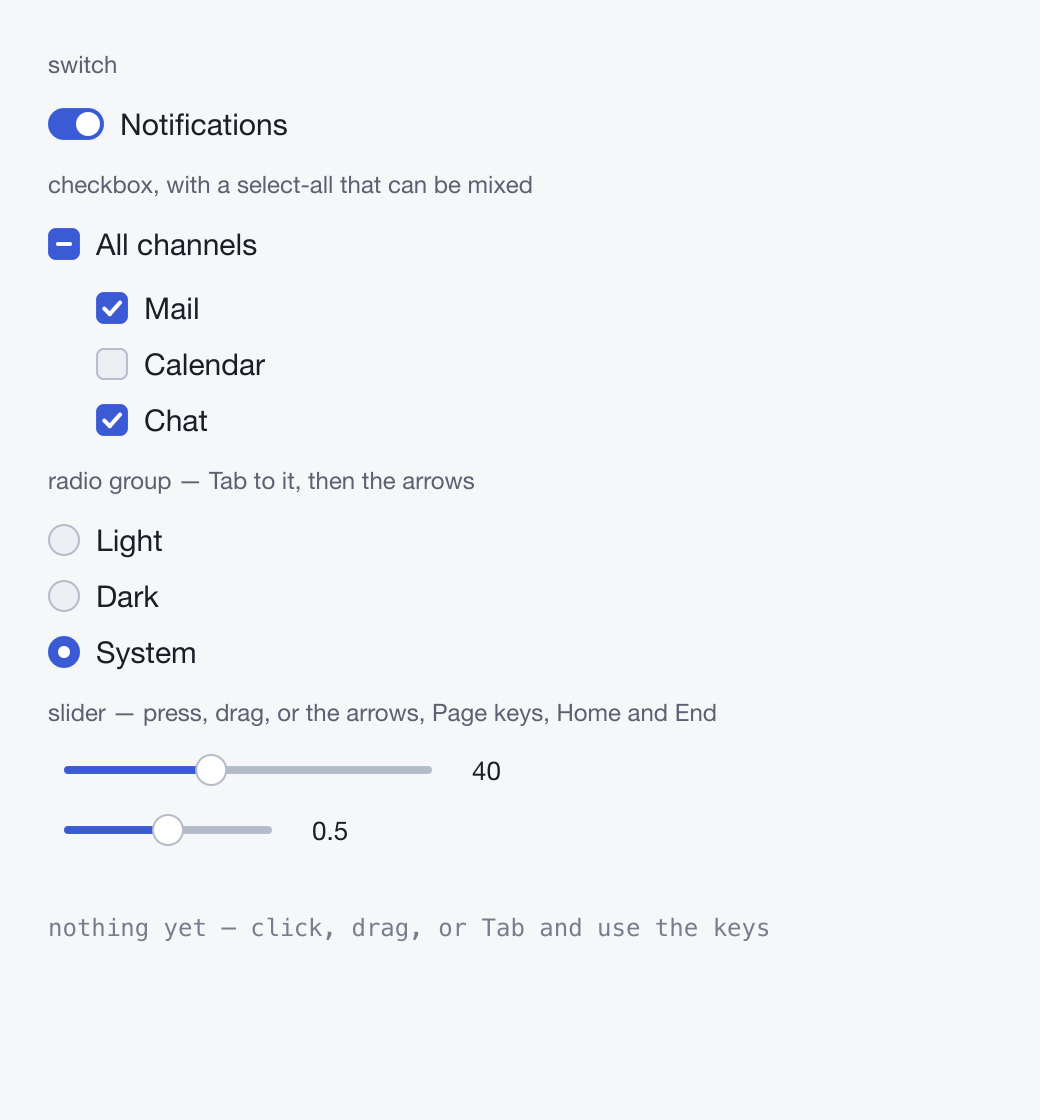
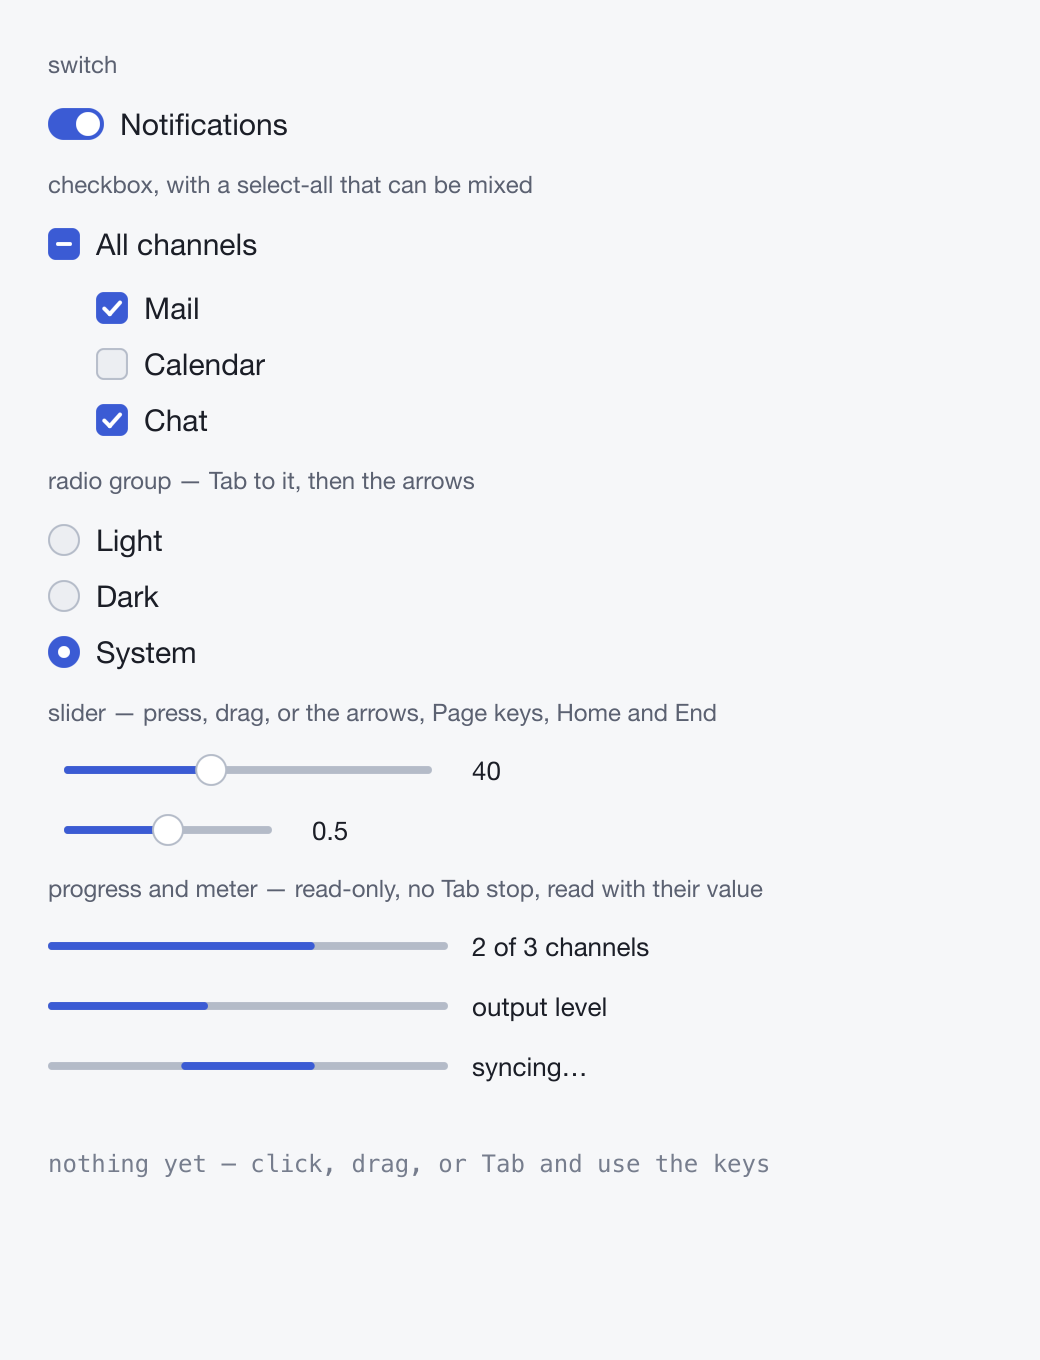
The progress bar and the meter in the howto and the controls examples (F267's docs)
F267 shipped the roles and the stock bar with no page saying how to use them and no example showing one. docs/howto.md gains "How do I show progress or a level?": the bar in every binding, read-only and read with its value, busy with no valueNow, and a meter (role="meter") for a level that is not a task. The Rust and Node controls examples show a progress bar counting the channels set up (its valueText "2 of 3"), a meter following the volume, and a busy bar, each with a visible caption beside it (the label is the accessible name only); their headless drives check what a reader hears from each, and the book's picture of the example is drawn again.

Tests: cargo run --example controls -- --headless and the Node twin's --headless (the bar's 2 then 3, the busy bar's no number, the meter's 100 after End); npm run typecheck; docs test; gen.nu --check (all steps) and book-examples.nu --check current; test.nu --node 3371 passed.

diff --git a/examples/node/widgets/controls.tsx b/examples/node/widgets/controls.tsx
@@ -3,8 +3,11 @@
 // of `<radio>`s whose arrows move the choice, and `<slider>`s whose changes
 // arrive as their `onChange` message with `change: {value, phase}` in it. None holds state: each
 // is drawn from the model, a toggle's press is its `onClick` message, and a
-// slider's value is proposed by the core and stored by `update` — the twin
-// of `rust/widgets/controls.rs`.
+// slider's value is proposed by the core and stored by `update`. Under them
+// the read-only bars (backlog F267): a `<progress>` counting the channels
+// set up, a meter showing the volume as a level, and a busy bar with no
+// value — none a control, each read with its value. The twin of
+// `rust/widgets/controls.rs`.
 //
 //   npm run controls                           a window to use by hand
 //   node dist/widgets/controls.mjs --headless  the same loop, no window
@@ -99,6 +102,27 @@ function view(model: Model) {
         />
         <text size={13}>{model.gain.toFixed(1)}</text>
       </box>
+      {heading('progress and meter — read-only, no Tab stop, read with their value')}
+      <box dir="row" gap={12} crossAlign="center">
+        <progress
+          label="Channels set up"
+          valueNow={ticked}
+          valueMin={0}
+          valueMax={CHANNELS.length}
+          valueText={`${ticked} of ${CHANNELS.length}`}
+        />
+        <text size={13}>{`${ticked} of ${CHANNELS.length} channels`}</text>
+      </box>
+      {/* A level, not a task under way: a meter. */}
+      <box dir="row" gap={12} crossAlign="center">
+        <progress label="Output level" role="meter" valueNow={model.volume} valueMax={100} />
+        <text size={13}>output level</text>
+      </box>
+      {/* No value: busy, read as indeterminate. */}
+      <box dir="row" gap={12} crossAlign="center">
+        <progress label="Syncing" />
+        <text size={13}>syncing…</text>
+      </box>
     </box>
   );
 }
@@ -109,7 +133,7 @@ await run<Model, AppMsg>({
   update,
   view,
   keys: [['click / space', 'toggle'], ['↑ ↓', 'move the radio'], ['← → pgup pgdn home end', 'move a slider']],
-  window: { width: 520, height: 540 },
+  window: { width: 520, height: 680 },
   headless: (app: App<Model, Msg>) => {
     const ok = (cond: boolean, what: string) => {
       if (!cond) throw new Error(what);
@@ -117,11 +141,15 @@ await run<Model, AppMsg>({
     };
     const node = (role: string, name: string) => app.accessTree().nodes.find((n) => n.role === role && n.name === name)!;
     app.render();
+    const setUp = node('progress', 'Channels set up');
+    ok(setUp.valueNow === 2 && setUp.value === '2 of 3', 'the progress bar reads two of three');
+    ok(node('progress', 'Syncing').valueNow === null, 'the busy bar carries no number');
     ok(node('checkbox', 'All channels').mixed, 'two of three channels: the select-all is mixed');
     app.access('All channels', 'click');
     app.render();
     ok(app.model.channels.every(Boolean), 'and ticking it ticks every row');
     ok(node('checkbox', 'All channels').checked === true, 'then it reads checked');
+    ok(node('progress', 'Channels set up').valueNow === 3, 'and the bar follows: three of three');
 
     const vol = node('slider', 'Volume');
     ok(vol.valueStep === 5, 'the slider reports its step');
@@ -134,6 +162,7 @@ await run<Model, AppMsg>({
     app.key('end');
     ok(app.model.volume === 100, 'End is the top');
     app.render();
+    ok(node('meter', 'Output level').valueNow === 100, 'the meter reads the volume');
     app.ctx.focus(node('slider', 'Gain').key);
     app.key('left');
     ok(app.model.gain === 0.4, 'a tenth down is 0.4 on the wire');

diff --git a/examples/rust/widgets/controls.rs b/examples/rust/widgets/controls.rs
@@ -1,13 +1,17 @@
 //! The stock controls (`docs/adr/0034-stock-controls-over-the-roles.md`):
 //! checkbox, radio group, switch and slider, each drawn from the state the
-//! view declares and none holding any of its own.
+//! view declares and none holding any of its own; and the read-only bars
+//! beside them, a progress bar and a meter (backlog F267).
 //!
 //! A settings page's worth of them: notifications on or off, a sound
 //! checkbox beside a select-all box that goes mixed when only some of its
 //! three rows are ticked, a theme chosen by radio (arrows move the choice),
 //! and two sliders — a volume the core snaps to steps of 5, and a gain in
-//! tenths — whose `change` events carry the value to store. Every change
-//! is one line in the event log at the bottom.
+//! tenths — whose `change` events carry the value to store. Under them a
+//! progress bar counts the channels set up, a meter shows the volume as a
+//! level, and a third bar is busy: none is a control, and a screen reader
+//! hears each one's value. Every change is one line in the event log at
+//! the bottom.
 //!
 //! Run: cargo run -p kui-native --example controls [-- --headless]
 
@@ -152,6 +156,43 @@ impl App for Controls {
                     );
                 });
 
+                heading(ui, "progress and meter — read-only, no Tab stop, read with their value");
+                let caption = |ui: &mut Ui<'_>, s: &str| {
+                    ui.text(s, TextStyle::new(13.0).color(t.fg));
+                };
+                let bar_row = NodeSpec::row().gap(12.0).cross_align(Align::Center);
+                ui.with(bar_row.clone(), |ui| {
+                    widgets::progress_with(
+                        ui,
+                        "Channels set up",
+                        widgets::progress_spec(&m)
+                            .value_now(ticked as f32)
+                            .value_min(0.0)
+                            .value_max(CHANNELS.len() as f32)
+                            .value_text(format!("{ticked} of {}", CHANNELS.len())),
+                        None,
+                    );
+                    caption(ui, &format!("{ticked} of {} channels", CHANNELS.len()));
+                });
+                // A level, not a task under way: a meter.
+                ui.with(bar_row.clone(), |ui| {
+                    widgets::progress_with(
+                        ui,
+                        "Output level",
+                        widgets::progress_spec(&m)
+                            .role(Role::Meter)
+                            .value_now(self.volume)
+                            .value_max(100.0),
+                        None,
+                    );
+                    caption(ui, "output level");
+                });
+                // No value: busy, read as indeterminate.
+                ui.with(bar_row, |ui| {
+                    widgets::progress(ui, "Syncing", None, 0.0, 100.0);
+                    caption(ui, "syncing…");
+                });
+
                 ui.leaf(NodeSpec::column().height(8.0));
                 ui.text(&self.last, TextStyle::new(12.0).color(t.faint).mono());
             },
@@ -183,7 +224,7 @@ impl App for Controls {
 
 impl Example for Controls {
     fn window(&self) -> kui_devtools::Window {
-        kui_devtools::Window::default().size(520.0, 560.0)
+        kui_devtools::Window::default().size(520.0, 680.0)
     }
 
     /// A toggle's press flips the model through its payload; the select-all
@@ -191,7 +232,7 @@ impl Example for Controls {
     /// group's arrows move the choice; a slider's press, keys and ends
     /// propose values snapped to its step, which the app stores.
     fn headless(&mut self, core: &mut Core) -> Result<(), String> {
-        let mut d = Drive::new(core, 520.0, 560.0);
+        let mut d = Drive::new(core, 520.0, 680.0);
         d.frame(self);
         let node = |d: &mut Drive<'_>, name: &str, role: Role| {
             d.core
@@ -203,11 +244,21 @@ impl Example for Controls {
                 .ok_or(format!("no {name}"))
         };
 
+        let set_up = node(&mut d, "Channels set up", Role::Progress)?;
+        d.check(
+            set_up.number == Some(2.0) && set_up.value.as_deref() == Some("2 of 3"),
+            "the progress bar reads two of three",
+        )?;
+        let busy = node(&mut d, "Syncing", Role::Progress)?;
+        d.check(busy.number.is_none(), "the busy bar carries no number")?;
+
         let all = node(&mut d, "All channels", Role::Checkbox)?;
         d.check(all.mixed, "two of three channels: the select-all is mixed")?;
         d.click_key(self, all.key);
         d.frame(self);
         d.check(self.channels == [true; 3], "and ticking it ticks every row")?;
+        let set_up = node(&mut d, "Channels set up", Role::Progress)?;
+        d.check(set_up.number == Some(3.0), "and the bar follows: three of three")?;
         let all = node(&mut d, "All channels", Role::Checkbox)?;
         d.check(all.checked == Some(true), "then it reads checked")?;
 
@@ -246,6 +297,9 @@ impl Example for Controls {
         d.key(self, "end", KeyMods::default());
         d.frame(self);
         d.check(self.volume == 100.0, "End is the top")?;
+        d.frame(self);
+        let level = node(&mut d, "Output level", Role::Meter)?;
+        d.check(level.number == Some(100.0), "the meter reads the volume")?;
 
         let gain = node(&mut d, "Gain", Role::Slider)?;
         d.check(

diff --git a/crates/kui-native/docs/howto.md b/crates/kui-native/docs/howto.md
@@ -1221,6 +1221,35 @@ moves them with the stock button.
 [examples/node/widgets/controls.tsx](https://github.com/qxuken/kui/blob/main/examples/node/widgets/controls.tsx) ·
 [ADR 0047](https://github.com/qxuken/kui/blob/main/docs/adr/0047-an-event-arrives-as-the-message-its-handler-declared.md)
 
+### How do I show progress or a level?
+
+A stock bar: `<progress label="Upload" valueNow={done} valueMax={total}
+valueText={`${done} of ${total} files`}/>`, `progress { label = "Upload",
+value_now = done, value_max = total }` in Lua, `kui_progress(ctx, label,
+spec)` in C, `kui.progress(ui, "Upload", done, 0, total)` in Odin,
+`widgets::progress(ui, "Upload", Some(done), 0.0, total)` in Rust. It is
+the slider's track and a fill, read-only: no Tab stop, nothing to press,
+and a screen reader hears its label and its value — `valueText` when you
+give one, else the number — and the new one each frame you declare
+another.
+Leave `valueNow` out while you cannot say how far along it is: the bar is
+busy, a third of the track lit in its middle, and every platform reads it
+as indeterminate.
+
+A level that is not a task under way — a battery, a disk, a signal — is a
+meter: the same bar with `role="meter"` (`KUI_ROLE_METER` in C,
+`.role(Role::Meter)` on `widgets::progress_spec` in Rust). macOS and Linux
+read it as a level indicator and Windows as a meter, where a progress bar
+would say "progress". A meter is never busy. The label is the accessible
+name only; put a visible caption beside the bar if the screen should say it
+too. Both roles fit a box of your own as well, with the value rows, when
+the stock look is not yours; the `slider-value-out-of-range` warning
+checks either.
+
+[the elements](crate::docs::props#elements) ·
+[examples/rust/widgets/controls.rs](https://github.com/qxuken/kui/blob/main/examples/rust/widgets/controls.rs) ·
+[examples/node/widgets/controls.tsx](https://github.com/qxuken/kui/blob/main/examples/node/widgets/controls.tsx)
+
 ### How do I keep a long checkbox label on one line?
 
 `ellipsis` on the toggle — `<checkbox ellipsis>`, `checkbox { ellipsis =

diff --git a/docs/howto.md b/docs/howto.md
@@ -1221,6 +1221,35 @@ moves them with the stock button.
 [examples/node/widgets/controls.tsx](../examples/node/widgets/controls.tsx) ·
 [ADR 0047](adr/0047-an-event-arrives-as-the-message-its-handler-declared.md)
 
+### How do I show progress or a level?
+
+A stock bar: `<progress label="Upload" valueNow={done} valueMax={total}
+valueText={`${done} of ${total} files`}/>`, `progress { label = "Upload",
+value_now = done, value_max = total }` in Lua, `kui_progress(ctx, label,
+spec)` in C, `kui.progress(ui, "Upload", done, 0, total)` in Odin,
+`widgets::progress(ui, "Upload", Some(done), 0.0, total)` in Rust. It is
+the slider's track and a fill, read-only: no Tab stop, nothing to press,
+and a screen reader hears its label and its value — `valueText` when you
+give one, else the number — and the new one each frame you declare
+another.
+Leave `valueNow` out while you cannot say how far along it is: the bar is
+busy, a third of the track lit in its middle, and every platform reads it
+as indeterminate.
+
+A level that is not a task under way — a battery, a disk, a signal — is a
+meter: the same bar with `role="meter"` (`KUI_ROLE_METER` in C,
+`.role(Role::Meter)` on `widgets::progress_spec` in Rust). macOS and Linux
+read it as a level indicator and Windows as a meter, where a progress bar
+would say "progress". A meter is never busy. The label is the accessible
+name only; put a visible caption beside the bar if the screen should say it
+too. Both roles fit a box of your own as well, with the value rows, when
+the stock look is not yours; the `slider-value-out-of-range` warning
+checks either.
+
+[the elements](props.md#elements) ·
+[examples/rust/widgets/controls.rs](../examples/rust/widgets/controls.rs) ·
+[examples/node/widgets/controls.tsx](../examples/node/widgets/controls.tsx)
+
 ### How do I keep a long checkbox label on one line?
 
 `ellipsis` on the toggle — `<checkbox ellipsis>`, `checkbox { ellipsis =

diff --git a/CHANGELOG.md b/CHANGELOG.md
@@ -110,7 +110,9 @@ functions; no struct moved).
   meter. `<progress label valueNow ...>`, Lua `progress { }`, C
   `kui_progress(ctx, label, spec)`, Odin `kui.progress(ui, label, value,
   lo, hi)`, Rust `widgets::progress` / `progress_with`. The
-  `slider-value-out-of-range` warning covers both.
+  `slider-value-out-of-range` warning covers both. `docs/howto.md` has
+  "How do I show progress or a level?", and the controls examples (Rust
+  and Node) show a progress bar, a meter and a busy bar.
 
 - **The C and Odin libraries come per platform** (backlog F268):
   `kui-c-<version>-<platform>.tar.gz` and `kui-odin-<version>-<platform>.tar.gz`
